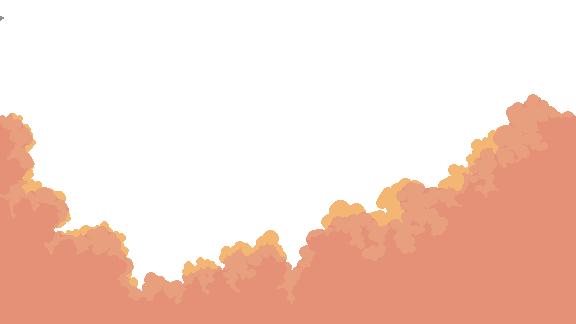
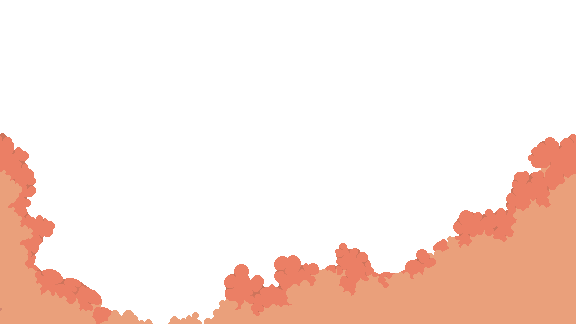
Creating menu interations Creating ABC class Creating Factory Level 1 Background implementation: parallax Refactor PNG file names

Changed region(s): [[0.0, 0.2778, 1.0, 1.0]]

diff --git a/code/Menu.py b/code/Menu.py
@@ -5,7 +5,7 @@ import pygame.image
 from pygame import Surface, Rect
 from pygame.font import Font
 
-from code.Const import WINDOW_WIDTH, COLOR_BLUE, MENU_OPTION, COLOR_BLACK
+from code.Const import WINDOW_WIDTH, MENU_OPTION, COLOR_ORANGE, COLOR_WHITE, COLOR_YELLOW, COLOR_BLACK
 
 
 class Menu:
@@ -15,26 +15,64 @@ class Menu:
         self.rect = self.surf.get_rect(left=0, top=0)
 
     def run(self):
+        menu_option = 0
         pygame.mixer_music.load('./assets/main-menu.mp3')
         pygame.mixer_music.play(-1)
         while True:
+            # DRAW IMAGES
             self.window.blit(source=self.surf, dest=self.rect)
-            self.menu_text(50, "Sky", COLOR_BLACK, ((WINDOW_WIDTH / 2), 70))
-            self.menu_text(50, "Shooter", COLOR_BLACK, ((WINDOW_WIDTH / 2), 95))
+
+            overlay = pygame.Surface((self.rect.width, self.rect.height))
+            overlay.set_alpha(40)
+            overlay.fill((0, 0, 0))
+            self.window.blit(overlay, (0, 0))
+
+            self.menu_text(50, "Sky", COLOR_ORANGE, ((WINDOW_WIDTH / 2), 65))
+            self.menu_text(50, "Shooter", COLOR_ORANGE, ((WINDOW_WIDTH / 2), 95))
 
             for i in range(len(MENU_OPTION)):
-                self.menu_text(20, MENU_OPTION[i], COLOR_BLACK, ((WINDOW_WIDTH / 2), 200 + 22 * i))
-
+                if i == menu_option:
+                    self.menu_text(20, MENU_OPTION[i], COLOR_YELLOW, ((WINDOW_WIDTH / 2), 200 + 22 * i))
+                else:
+                    self.menu_text(20, MENU_OPTION[i], COLOR_WHITE, ((WINDOW_WIDTH / 2), 200 + 22 * i))
             pygame.display.flip()
 
             # Check for all events
             for event in pygame.event.get():
                 if event.type == pygame.QUIT:
-                    pygame.quit()  # Close Window
+                    pygame.quit()  # Close window
                     quit()  # End pygame
+                if event.type == pygame.KEYDOWN:
+                    if event.key == pygame.K_DOWN:  # DOWN KEY
+                        if menu_option < len(MENU_OPTION) - 1:
+                            menu_option += 1
+                        else:
+                            menu_option = 0
+                    if event.key == pygame.K_UP:  # UP KEY
+                        if menu_option > 0:
+                            menu_option -= 1
+                        else:
+                            menu_option = len(MENU_OPTION) - 1
+                    if event.key == pygame.K_RETURN: # ENTER
+                        return MENU_OPTION[menu_option]
+
+    # def menu_text(self, text_size: int, text: str, text_color: tuple, text_center_pos: tuple):
+    #     text_font: Font = pygame.font.SysFont(name="Lucida Sans Typewriter", size=text_size)
+    #     text_surf: Surface = text_font.render(text, True, text_color).convert_alpha()
+    #     text_rect: Rect = text_surf.get_rect(center=text_center_pos)
+    #     self.window.blit(source=text_surf, dest=text_rect)
 
     def menu_text(self, text_size: int, text: str, text_color: tuple, text_center_pos: tuple):
-        text_font: Font = pygame.font.SysFont(name="Lucida Sans Typewriter", size=text_size)
+        text_font: Font = pygame.font.SysFont(name="Upheaval TT (BRK)", size=text_size)
+
+        outline_color = COLOR_BLACK
+        offsets = [(-1, 0), (1, 0), (0, -1), (0, 1)]
+
+        for dx, dy in offsets:
+            outline_surf: Surface = text_font.render(text, True, outline_color).convert_alpha()
+            outline_rect: Rect = outline_surf.get_rect(center=(text_center_pos[0] + dx, text_center_pos[1] + dy))
+            self.window.blit(source=outline_surf, dest=outline_rect)
+
         text_surf: Surface = text_font.render(text, True, text_color).convert_alpha()
         text_rect: Rect = text_surf.get_rect(center=text_center_pos)
         self.window.blit(source=text_surf, dest=text_rect)

diff --git a/code/Game.py b/code/Game.py
@@ -2,7 +2,8 @@
 # -*- coding: utf-8 -*-
 import pygame
 
-from code.Const import WINDOW_WIDTH, WINDOW_HEIGHT
+from code.Const import WINDOW_WIDTH, WINDOW_HEIGHT, MENU_OPTION
+from code.Level import Level
 from code.Menu import Menu
 
 
@@ -14,6 +15,16 @@ class Game:
     def run(self):
         while True:
             menu = Menu(self.window)
-            menu.run()
-            pass
+            menu_return = menu.run()
+
+            if menu_return in [MENU_OPTION[0], MENU_OPTION[1], MENU_OPTION[2]]:
+                level = Level(self.window, 'Level 1', menu_return)
+                level_return = level.run()
+            elif menu_return == MENU_OPTION[4]:
+                pygame.quit()
+                quit()
+            else:
+                pass
+
+
 

diff --git a/code/Level.py b/code/Level.py
@@ -1,11 +1,23 @@
 #!/usr/bin/python
 # -*- coding: utf-8 -*-
+import pygame
+
+from code.Entity import Entity
+from code.EntityFactory import EntityFactory
+
 
 class Level:
-    def __init__(self):
-        self.window = None
-        self.name = None
-        self.entity_list = None
+    def __init__(self, window, name, game_mode):
+        self.window = window
+        self.name = name
+        self.game_mode = game_mode
+        self.entity_list: list[Entity] = []
+        self.entity_list.extend(EntityFactory.get_entity('Level1BG'))
 
     def run(self):
+        while True:
+            for ent in self.entity_list:
+                self.window.blit(source=ent.surf, dest=ent.rect)
+                ent.move()
+            pygame.display.flip()
         pass

diff --git a/code/Const.py b/code/Const.py
@@ -1,11 +1,22 @@
 # C
-COLOR_BLUE = 76, 121, 146
 COLOR_BLACK = 0, 0, 0
+COLOR_BLUE = 76, 121, 146
+COLOR_ORANGE = 255, 165, 0
+COLOR_WHITE = 255, 255, 255
+COLOR_YELLOW = 255, 255, 0
+
+# E
+ENTITY_SPEED= {'Level1BG0': 0,
+                'Level1BG1': 2,
+                'Level1BG2': 3,
+                'Level1BG3': 4,
+                'Level1BG4': 2,
+                'Level1BG5': 3}
 
 # M
-MENU_OPTION =('NEW GAME 1P',
-              'NEW GAME 2P - COOPERATIVE',
-              'NEW GAME 2P - COMPETITIVE',
+MENU_OPTION =('NEW GAME 1 PLAYER',
+              'NEW GAME 2 PLAYERS - COOPERATIVE',
+              'NEW GAME 2 PLAYERS - COMPETITIVE',
               'SCORE',
               'EXIT')
 

diff --git a/code/Entity.py b/code/Entity.py
@@ -1,11 +1,17 @@
 #!/usr/bin/python
 # -*- coding: utf-8 -*-
+from abc import ABC, abstractmethod
 
-class Entity:
-    def __init__(self):
-        self.name = None
-        self.surf = None
-        self.rect = None
+import pygame.image
 
+
+class Entity(ABC):
+    def __init__(self, name: str, position: tuple):
+        self.name = name
+        self.surf = pygame.image.load('./assets/' + name + '.png')
+        self.rect = self.surf.get_rect(left=position[0], top=position[1])
+        self.speed = 0
+
+    @abstractmethod
     def move(self, ):
         pass

diff --git a/code/EntityFactory.py b/code/EntityFactory.py
@@ -1,0 +1,17 @@
+#!/usr/bin/python
+# -*- coding: utf-8 -*-
+from code.Background import Background
+from code.Const import WINDOW_WIDTH
+
+
+class EntityFactory:
+
+    @staticmethod
+    def get_entity(entity_name: str):
+        match entity_name:
+            case 'Level1BG':
+                list_bg = []
+                for i in range(6):
+                    list_bg.append(Background(f'Level1BG{i}', (0, 0)))
+                    list_bg.append(Background(f'Level1BG{i}', (WINDOW_WIDTH, 0)))
+                return list_bg

diff --git a/code/Background.py b/code/Background.py
@@ -1,12 +1,14 @@
 #!/usr/bin/python
 # -*- coding: utf-8 -*-
-
-from Entity import Entity
+from code.Const import WINDOW_WIDTH, ENTITY_SPEED
+from code.Entity import Entity
 
 
 class Background(Entity):
-    def __init__(self):
-        pass
+    def __init__(self, name: str, position: tuple):
+        super().__init__(name, position)
 
     def move(self, ):
-        pass
+        self.rect.centerx -= ENTITY_SPEED[self.name]
+        if self.rect.right <= 0:
+            self.rect.left = WINDOW_WIDTH
